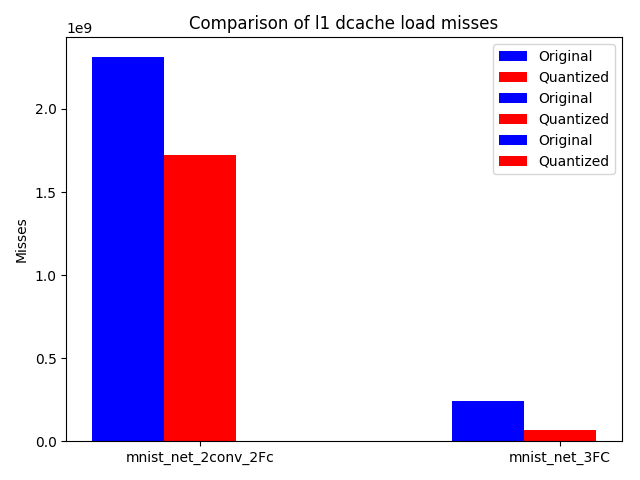
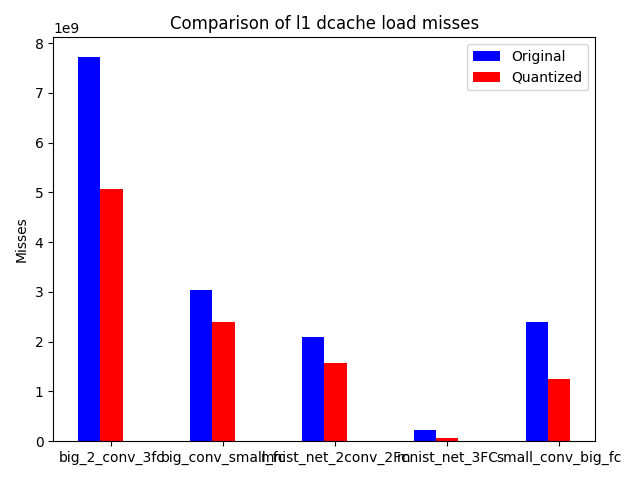
New plots

diff --git a/tf_quantize/analysis/plot_net.py b/tf_quantize/analysis/plot_net.py
@@ -15,6 +15,8 @@ import numpy as np
 from matplotlib import mlab
 import os
 import math
+from os import listdir
+from os.path import isfile, join
 
 import weights_ranges
 
@@ -49,7 +51,7 @@ def plot(net_files):
     bar_chart(original_size, quantized_size, (net_list[i].name for i in range(0, len(net_list), 2)), "File Size",
               "Comparison of size", "img/size.png")
     # l1 d cache load misses
-    misses = [n.__dict__['L1-dcache-load-misses'] for n in net_list]
+    misses = [n.L1_dcache_load_misses for n in net_list]
     original_misses = [misses[i] for i in range(0, len(misses), 2)]
     quantized_misses = [misses[i] for i in range(1, len(misses), 2)]
     bar_chart(original_misses, quantized_misses, (net_list[i].name for i in range(0, len(net_list), 2)), "Misses",
@@ -60,6 +62,7 @@ def plot(net_files):
     quantized_time = [test_time[i] for i in range(1, len(test_time), 2)]
     bar_chart(original_time, quantized_time, (net_list[i].name for i in range(0, len(net_list), 2)), "Inference Time",
               "Comparison of Inference time", "img/test_time.png")
+    print test_time
 
     # plot weights
     net_list_weights = [net_list[i] for i in range(0,len(net_list),2)]
@@ -96,7 +99,7 @@ def bar_chart(original_data, quantized_data, xNames, yLabel, title,filename):
     plt.legend()
     plt.tight_layout()
     plt.savefig(filename)
-    #plt.show()
+    plt.show()
 
 
 def histogram(weights_list, filename, net_name):
@@ -115,5 +118,10 @@ def histogram(weights_list, filename, net_name):
 if __name__ == '__main__':
     parser = argparse.ArgumentParser(description=help)
     parser.add_argument('--net_file', type=str, nargs='+', help='files created by workflow program')
+    parser.add_argument('--dir',type=str,nargs=1,help='directory containing file')
     args = parser.parse_args()
-    plot(args.net_file)
+    if len(args.dir) == 0:
+        plot(args.net_file)
+    else:
+        files = [args.dir[0]+'/'+f for f in listdir(args.dir[0]) if isfile(join(args.dir[0], f))]
+        plot(files)
